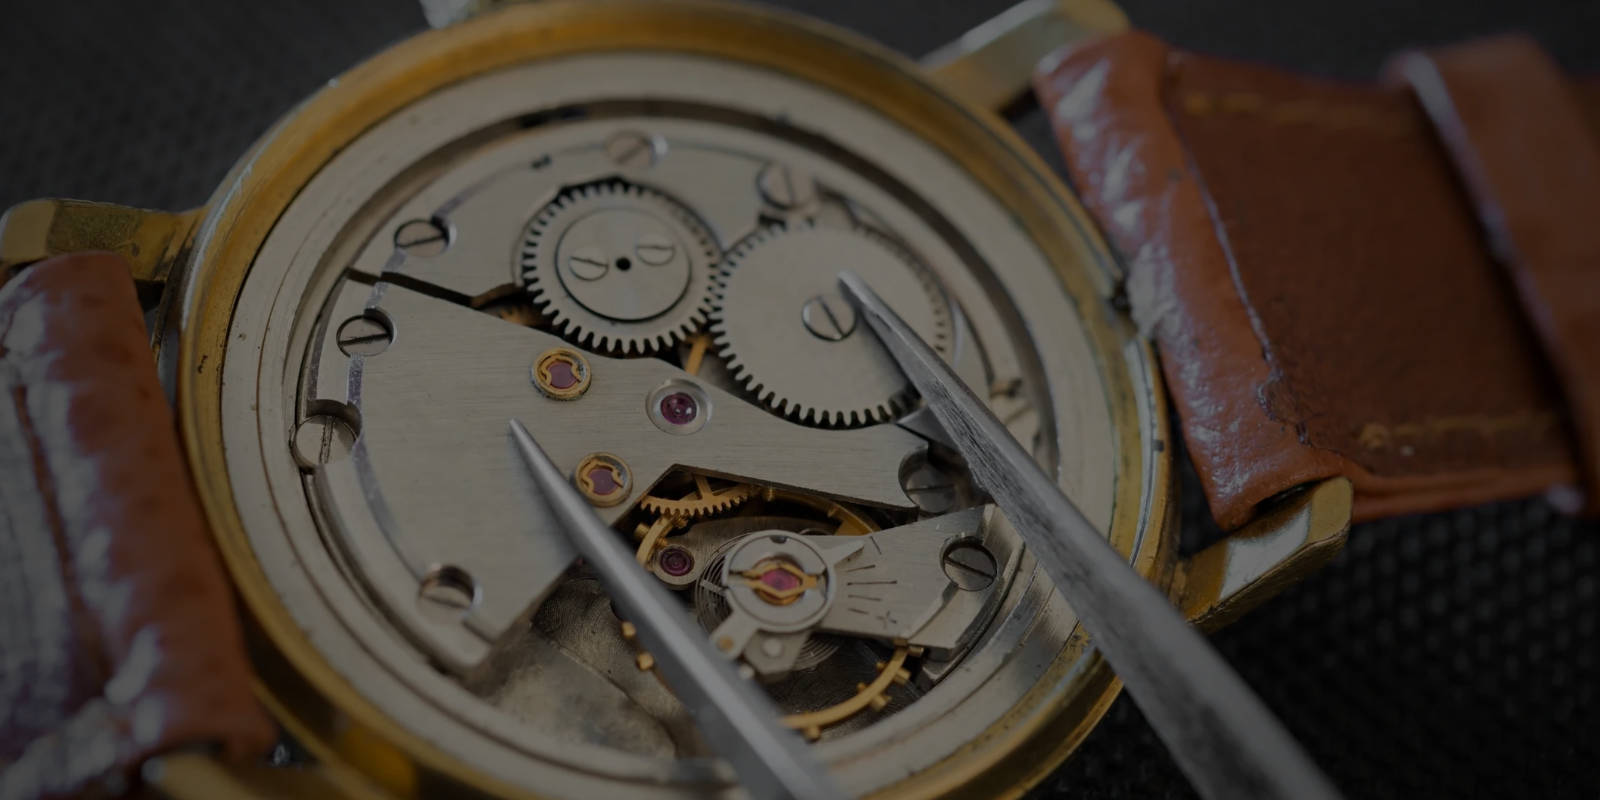
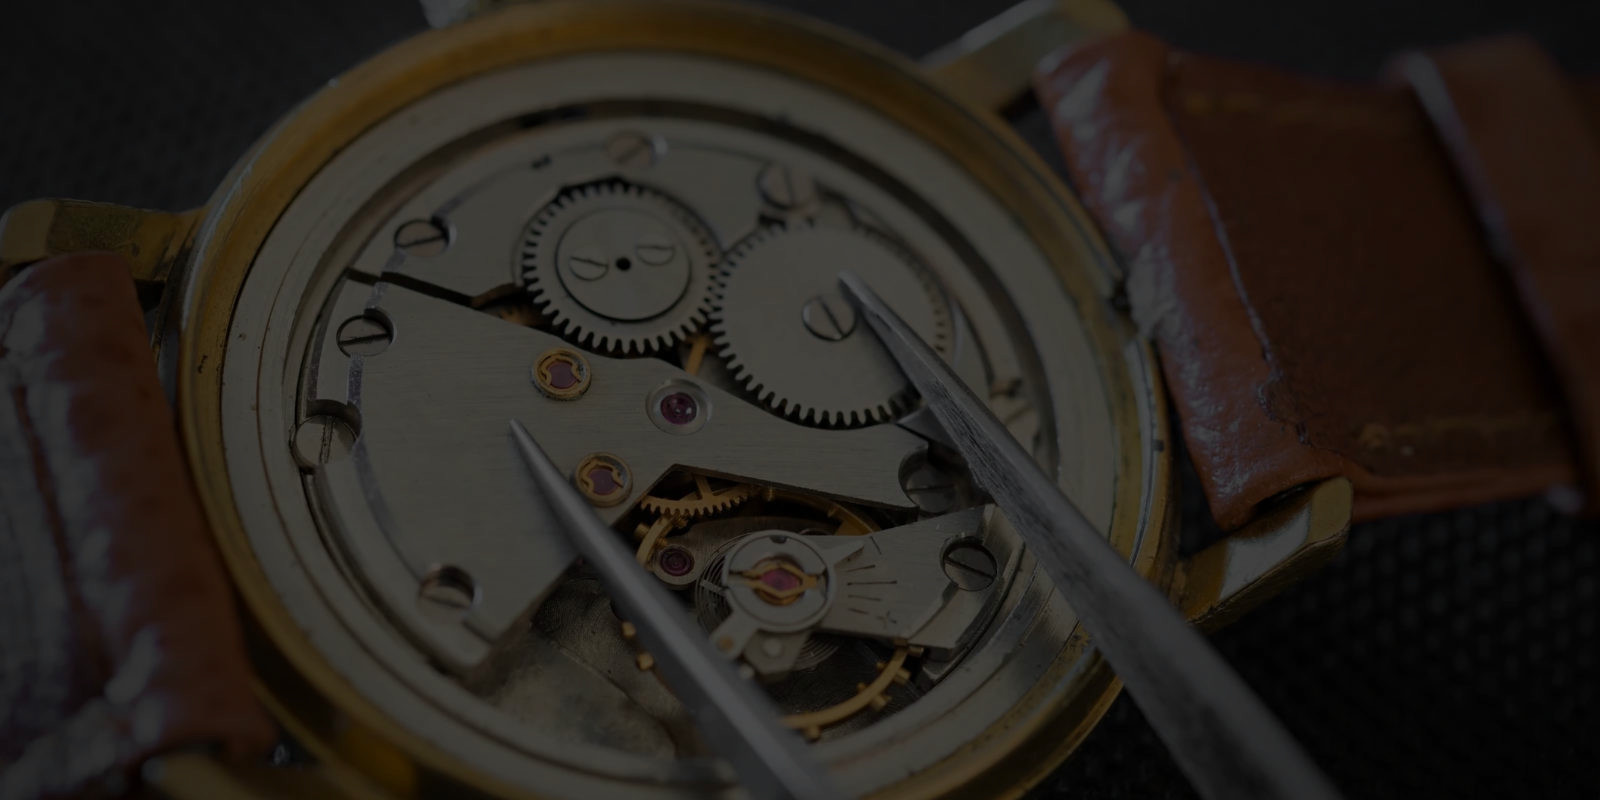
landing page image fixed

diff --git a/assets/css/templatemo-villa-agency.css b/assets/css/templatemo-villa-agency.css
@@ -821,13 +821,23 @@ Header Style
 Banner Style
 --------------------------------------------- 
 */
-
+/* 
 .main-banner .item {
   background-position: center center;
   background-repeat: no-repeat;
   background-size: cover;
   padding: 220px 20% 320px 20%;
   margin-top: 0px;
+} */
+
+.main-banner {
+  height: calc(
+    100vh - 60px - 100px
+  ); /* 100vh minus header and footer heights */
+  display: flex;
+  align-items: center; /* Center vertically */
+  justify-content: center; /* Center horizontally */
+  position: relative;
 }
 
 .main-banner .item-1 {
@@ -1505,23 +1515,27 @@ Page Header Style
 
 .image-container {
   position: relative;
-  width: 100%; /* Adjust this to your desired width */
+  height: 100%; /* Adjust this to your desired width */
 }
+/* 
+.image-container img {
+  width: 100%;
+  height: auto;
+  max-height: 800px;
+} */
 
 .image-container img {
-  /* width: 100%; Ensure the image covers the entire container
-  height: auto; */
-  max-height: 800px;
+  /* width: 100%; */
+  height: 100%;
+  object-fit: cover; /* Ensures the image covers the container without distortion */
 }
 
 .overlay-text {
   position: absolute;
-  top: 50%; /* Center the text vertically */
-  left: 50%; /* Center the text horizontally */
-  transform: translate(-50%, -50%); /* Adjust position for perfect centering */
-  color: white; /* Change the text color */
-  font-size: 24px; /* Adjust the font size as needed */
-  padding: 10px; /* Optional: Add some padding to the text */
+  top: 35%;
+  left: 50%;
+  transform: translate(-50%, -50%);
+  color: white;
   text-align: center;
 }
 
@@ -1885,12 +1899,6 @@ body {
   }
   .header-area .main-nav .nav li:last-child {
     color: black;
-  }
-  h3 {
-    font-size: 20px;
-  }
-  h5 {
-    font-size: 12px;
   }
 }
 

diff --git a/index.html b/index.html
@@ -63,29 +63,27 @@
     </header>
     <!-- HEADER & NAVIGATION -->
 
-    <h5 class="hulings-blue mb-3 text-center">
+    <h6 class="hulings-blue mb-3 text-center">
       What will you do with 168 Hours a week?
-    </h5>
+    </h6>
 
     <div class="main-banner">
       <div class="image-container">
         <img src="assets/images/banner-01.jpg" alt="Background Image" />
         <div class="overlay-text">
-          <h3 class="text-white">Benjamin Franklin said,</h3>
-          <h5 class="text-white">
+          <h4 class="text-white">Benjamin Franklin said,</h4>
+          <p class="text-white fw-bold fs-6 my-2">
             “Take care of the pennies and the dollars will take care of
             themselves.”
-          </h5>
+          </p>
           <h3 class="text-white mt-4">PACE168 says,</h3>
-          <h5 class="text-white">
+          <p class="text-white fw-bold fs-6 my-2">
             “Take care of the minutes and the hours will take care of
             themselves.”
-          </h5>
+          </p>
         </div>
       </div>
     </div>
-
-    <div><br /><br /><br /><br /><br /><br /><br /></div>
 
     <footer>
       <div class="container">

diff --git a/calculator.html b/calculator.html
@@ -67,9 +67,9 @@
     </header>
     <!-- HEADER & NAVIGATION -->
 
-    <h5 class="hulings-blue mb-3 text-center">
+    <h6 class="hulings-blue mb-3 text-center">
       What will you do with 168 Hours a week?
-    </h5>
+    </h6>
 
     <div class="main-container">
       <div class="container box box1 mb-5">

diff --git a/attitude.html b/attitude.html
@@ -62,9 +62,9 @@
     </header>
     <!-- HEADER & NAVIGATION -->
 
-    <h5 class="hulings-blue mb-3 text-center">
+    <h6 class="hulings-blue mb-3 text-center">
       What will you do with 168 Hours a week?
-    </h5>
+    </h6>
 
     <div class="main-container">
       <div class="box box1">

diff --git a/care.html b/care.html
@@ -65,9 +65,9 @@
     </header>
     <!-- HEADER & NAVIGATION -->
 
-    <h5 class="hulings-blue mb-3 text-center">
+    <h6 class="hulings-blue mb-3 text-center">
       What will you do with 168 Hours a week?
-    </h5>
+    </h6>
 
     <div class="main-container">
       <div class="box box1">

diff --git a/energy.html b/energy.html
@@ -62,9 +62,9 @@
     </header>
     <!-- HEADER & NAVIGATION -->
 
-    <h5 class="hulings-blue mb-3 text-center">
+    <h6 class="hulings-blue mb-3 text-center">
       What will you do with 168 Hours a week?
-    </h5>
+    </h6>
 
     <div class="main-container">
       <div class="box box1">

diff --git a/purpose.html b/purpose.html
@@ -62,9 +62,9 @@
     </header>
     <!-- HEADER & NAVIGATION -->
 
-    <h5 class="hulings-blue mb-3 text-center">
+    <h6 class="hulings-blue mb-3 text-center">
       What will you do with 168 Hours a week?
-    </h5>
+    </h6>
 
     <div class="main-container">
       <div class="box box1">
